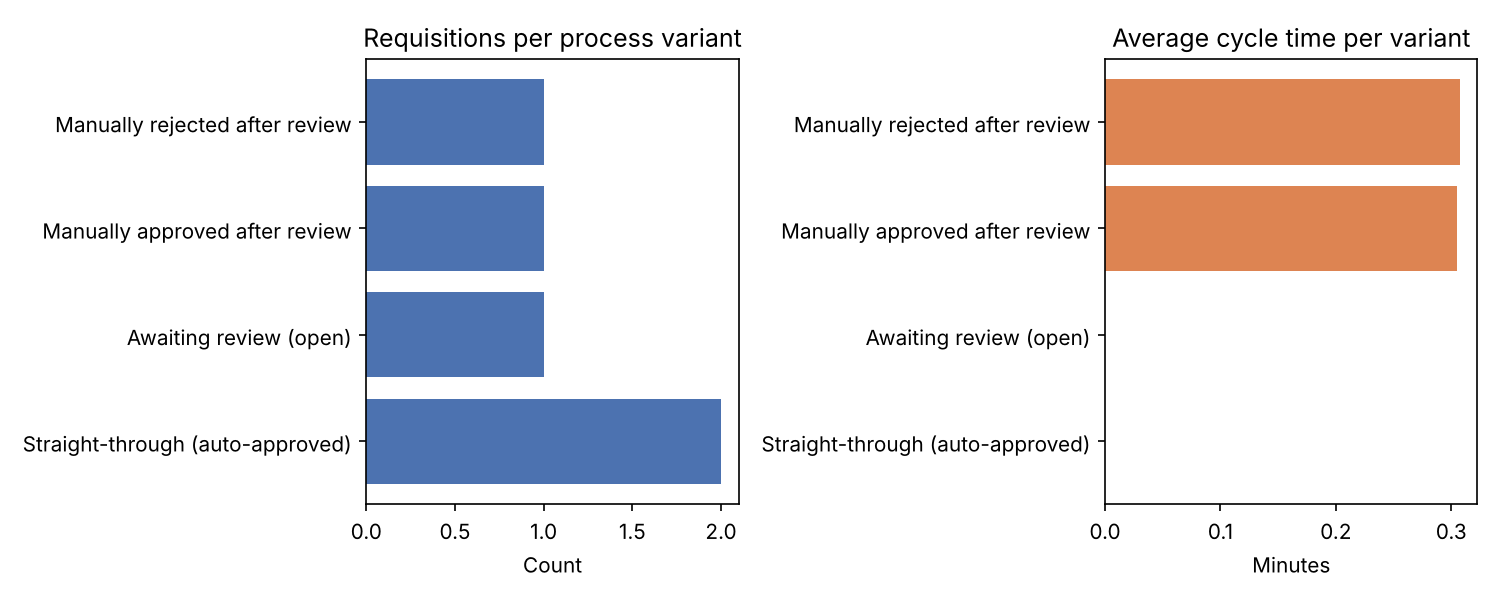
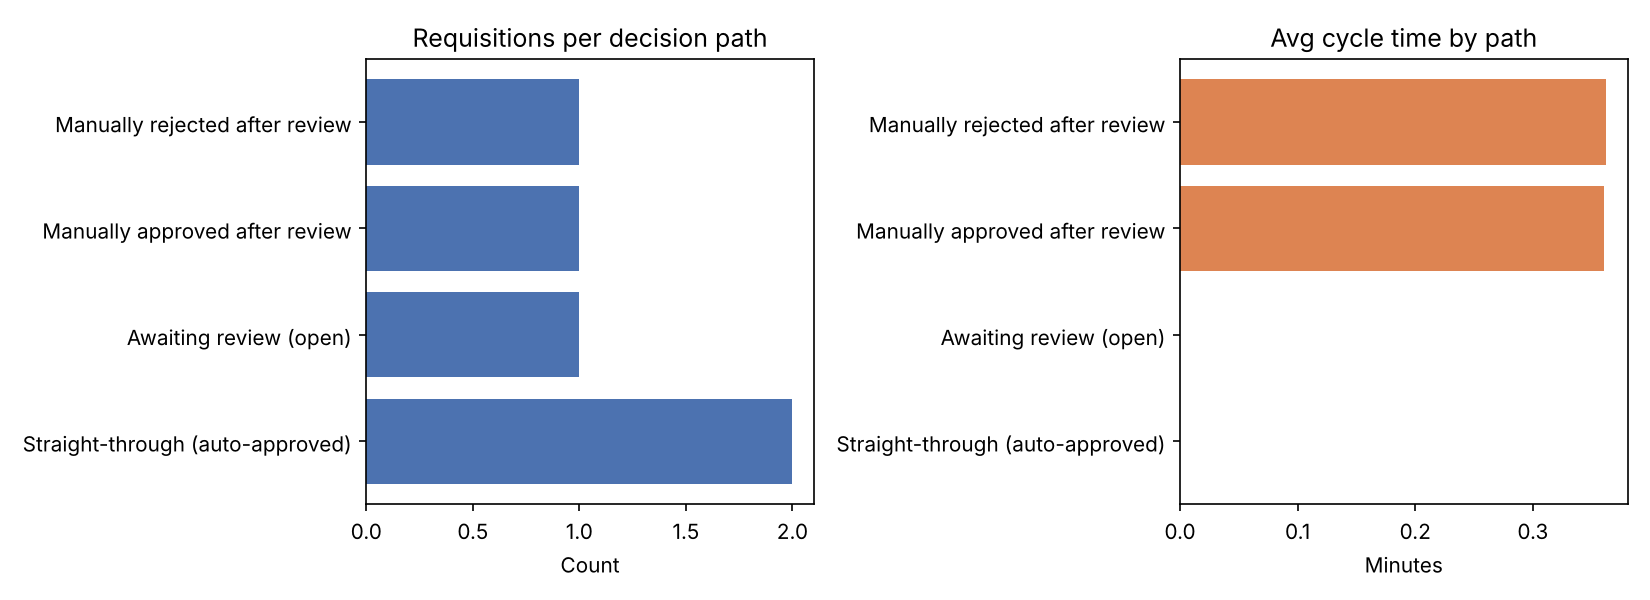
Fix round-table findings in the process-intelligence script
Round-table review (hiring-manager, code-quality, and process-mining
domain lenses) on analytics/process_intelligence.py surfaced real issues:

Bugs (code-quality lens):
- Instant parsing could crash on Python < 3.11 for Jackson's nanosecond-
  precision timestamps; now truncated to microseconds before parsing.
- `--chart` without `--out` silently did nothing; now a usage error.
- A negative cycle time (bad data/clock skew) would have been averaged in
  silently; now excluded and reported as a count of excluded bad records.
- `fetch_requisitions` had no request timeout.
- `render_markdown` took an unused `requisitions` parameter.

Framing (hiring-manager + process-mining domain lenses, independently
convergent): "process variant" overclaimed what a two-timestamp log
actually supports -- real variant discovery is over multi-activity
sequences, not a single terminal status. Renamed to "decision path"
throughout, added an explicit disclosed-limitation note in both the
console and Markdown output, and added an at-scale ROI projection
(disclosed hypothetical volume) alongside the real, small-sample figure
so the business-value number doesn't read as trivial by itself.

Verified: `mvn test` still green (22/22, untouched by this change), and
the script re-run live end-to-end against the running API with the fixes
in place; sample_report.md/sample_chart.png regenerated.

Claude-Session: https://claude.ai/code/session_016snCqMSgi8Y39Hj7LXxgPg

diff --git a/analytics/process_intelligence.py b/analytics/process_intelligence.py
@@ -3,12 +3,19 @@ Process intelligence over ReqFlow's own audit trail.
 
 ReqFlow already records, for every requisition, when it was created, when
 (and whether) it was decided, and why -- a timestamped event log by any
-other name. This script treats that log the way a process-mining tool
-would: it reconstructs the distinct paths ("variants") a requisition can
-take through the approval process, measures how long each path actually
-takes, and turns the straight-through / manual-review split into a
-quantified business-value number -- the kind of proof-of-value deliverable
-a procurement process-intelligence engagement is built to produce.
+other name. This script reads that log the way a process-mining tool
+would: it groups requisitions into the decision paths they took through
+the approval process, measures how long each path actually takes, and
+turns the straight-through / manual-review split into a quantified
+business-value number -- the kind of proof-of-value deliverable a
+procurement process-intelligence engagement is built to produce.
+
+Honest about its own limits: with only two recorded timestamps per case
+(created, decided), a "decision path" here is really a terminal-status
+grouping, not full process-mining variant discovery over a multi-activity
+event sequence -- and cycle time is total elapsed time, not decomposed
+into queue-time vs. decision-time. A richer log (e.g. an "opened for
+review" event) would support both; see the note each report prints.
 
 It is a client of the REST API, nothing more -- the same relationship the
 AI triage agent (agent/triage_agent.py) has to ReqFlow. No new endpoint,
@@ -21,11 +28,22 @@ Usage:
 
 import argparse
 import json
+import re
 import statistics
 import urllib.request
 from dataclasses import dataclass, field
 from datetime import datetime, timezone
 from pathlib import Path
+
+REQUEST_TIMEOUT_SECONDS = 10
+
+# Jackson serializes a Java Instant with up to 9 fractional-second digits
+# (nanoseconds), e.g. "...123456789Z". datetime.fromisoformat only accepts
+# arbitrary fractional-digit counts from Python 3.11 onward -- on an older
+# interpreter it raises ValueError on a perfectly ordinary timestamp from
+# this API. Truncating to microseconds (6 digits, what datetime actually
+# stores) sidesteps that version dependence entirely.
+_FRACTIONAL_SECONDS = re.compile(r"(\.\d{6})\d*(?=(Z|[+-]\d{2}:?\d{2})?$)")
 
 DEFAULT_BASE_URL = "http://localhost:8080"
 
@@ -34,6 +52,23 @@ DEFAULT_BASE_URL = "http://localhost:8080"
 # "a plausible mid-market procurement review."
 ASSUMED_MANUAL_REVIEW_MINUTES = 8.0
 ASSUMED_REVIEWER_HOURLY_COST_USD = 25.0
+
+# A demo run only has as many requisitions as someone bothered to create by
+# hand, which makes the absolute ROI figure look trivial even when the rate
+# behind it is real. This projects that same rate onto a disclosed, plainly
+# hypothetical production volume, so the number isn't mistaken for a small
+# finding rather than a small sample.
+ASSUMED_MONTHLY_VOLUME_AT_SCALE = 2000
+
+LIMITATION_NOTE = (
+    "These are decision-path groupings by terminal status, not full "
+    "process-mining variant discovery over a multi-activity event "
+    "sequence -- ReqFlow's audit trail records two timestamps per case "
+    "(created, decided), not intermediate events like \"opened for "
+    "review\". A richer log capturing that would let cycle time "
+    "decompose into queue-time vs. decision-time and support true "
+    "variant discovery."
+)
 
 # Keyword probes used only to bucket an *open* (still-pending) requisition's
 # flag reason into a coarse category for the backlog breakdown below. This
@@ -50,14 +85,18 @@ BACKLOG_CATEGORY_PROBES = [
 
 
 def fetch_requisitions(base_url: str) -> list[dict]:
-    with urllib.request.urlopen(f"{base_url}/api/requisitions") as resp:
+    with urllib.request.urlopen(
+        f"{base_url}/api/requisitions", timeout=REQUEST_TIMEOUT_SECONDS
+    ) as resp:
         return json.loads(resp.read().decode("utf-8"))
 
 
 def _parse_instant(value: str | None) -> datetime | None:
     if value is None:
         return None
-    return datetime.fromisoformat(value.replace("Z", "+00:00"))
+    value = value.replace("Z", "+00:00")
+    value = _FRACTIONAL_SECONDS.sub(r"\1", value)  # ns -> us, for Python < 3.11
+    return datetime.fromisoformat(value)
 
 
 @dataclass
@@ -91,11 +130,16 @@ def classify_backlog_reason(req: dict) -> str:
 
 
 def cycle_minutes(req: dict) -> float | None:
+    """None if undecided, or if the timestamps are unusable (clock skew or
+    bad data producing decidedAt before createdAt) -- a negative duration
+    averaged in silently would be a textbook "quietly wrong number" in a
+    report meant to be taken at face value."""
     created = _parse_instant(req.get("createdAt"))
     decided = _parse_instant(req.get("decidedAt"))
     if created is None or decided is None:
         return None
-    return (decided - created).total_seconds() / 60.0
+    minutes = (decided - created).total_seconds() / 60.0
+    return minutes if minutes >= 0 else None
 
 
 def build_report(requisitions: list[dict]) -> dict:
@@ -103,6 +147,7 @@ def build_report(requisitions: list[dict]) -> dict:
     backlog_by_reason: dict[str, int] = {}
     now = datetime.now(timezone.utc)
     backlog_ages_minutes: list[float] = []
+    excluded_bad_timestamps = 0
 
     for req in requisitions:
         label = classify_variant(req)
@@ -110,9 +155,8 @@ def build_report(requisitions: list[dict]) -> dict:
         stats.count += 1
 
         if label == "Awaiting review (open)":
-            backlog_by_reason[classify_backlog_reason(req)] = (
-                backlog_by_reason.get(classify_backlog_reason(req), 0) + 1
-            )
+            reason = classify_backlog_reason(req)
+            backlog_by_reason[reason] = backlog_by_reason.get(reason, 0) + 1
             created = _parse_instant(req.get("createdAt"))
             if created is not None:
                 backlog_ages_minutes.append((now - created).total_seconds() / 60.0)
@@ -120,6 +164,10 @@ def build_report(requisitions: list[dict]) -> dict:
             minutes = cycle_minutes(req)
             if minutes is not None:
                 stats.cycle_minutes.append(minutes)
+            elif req.get("decidedAt") is not None:
+                # Decided, but the timestamps didn't produce a usable
+                # (non-negative) duration -- bad data, not "undecided".
+                excluded_bad_timestamps += 1
 
     total = len(requisitions)
     auto_approved = variants.get("Straight-through (auto-approved)", VariantStats("")).count
@@ -128,6 +176,11 @@ def build_report(requisitions: list[dict]) -> dict:
     )
     hours_saved = auto_approved * ASSUMED_MANUAL_REVIEW_MINUTES / 60.0
     cost_avoided = hours_saved * ASSUMED_REVIEWER_HOURLY_COST_USD
+
+    auto_approval_rate = auto_approved / total if total else 0.0
+    scaled_auto_approved = round(auto_approval_rate * ASSUMED_MONTHLY_VOLUME_AT_SCALE)
+    scaled_hours_saved = scaled_auto_approved * ASSUMED_MANUAL_REVIEW_MINUTES / 60.0
+    scaled_cost_avoided = scaled_hours_saved * ASSUMED_REVIEWER_HOURLY_COST_USD
 
     return {
         "total": total,
@@ -138,18 +191,24 @@ def build_report(requisitions: list[dict]) -> dict:
         "backlog_ages_minutes": backlog_ages_minutes,
         "hours_saved": hours_saved,
         "cost_avoided": cost_avoided,
+        "auto_approval_rate": auto_approval_rate,
+        "scaled_auto_approved": scaled_auto_approved,
+        "scaled_hours_saved": scaled_hours_saved,
+        "scaled_cost_avoided": scaled_cost_avoided,
+        "excluded_bad_timestamps": excluded_bad_timestamps,
     }
 
 
 def print_report(report: dict) -> None:
     total = report["total"]
     print(f"\nReqFlow process intelligence -- {total} requisitions in scope\n")
-    print(f"{'Variant':38} {'Count':>6} {'Share':>7} {'Avg cycle':>12}")
+    print(f"{'Decision path':38} {'Count':>6} {'Share':>7} {'Avg cycle':>12}")
     for label, stats in sorted(report["variants"].items(), key=lambda kv: -kv[1].count):
         share = f"{100 * stats.count / total:.0f}%" if total else "--"
         avg = stats.avg_cycle_minutes
         avg_str = f"{avg:,.1f} min" if avg is not None else "--"
         print(f"{label:38} {stats.count:>6} {share:>7} {avg_str:>12}")
+    print(f"\n  {LIMITATION_NOTE}")
 
     if report["backlog_by_reason"]:
         print("\nOpen backlog, by original flag reason:")
@@ -173,6 +232,19 @@ def print_report(report: dict) -> None:
         "\n  (Assumptions are deliberately disclosed and swappable -- a real "
         "engagement would use the customer's own review-time and labor-cost figures.)"
     )
+    print(
+        f"\n  At the same {report['auto_approval_rate']:.0%} auto-approval rate but a "
+        f"production volume of {ASSUMED_MONTHLY_VOLUME_AT_SCALE:,}/month (disclosed, "
+        f"hypothetical): ~{report['scaled_auto_approved']:,} auto-approved, "
+        f"~{report['scaled_hours_saved']:.1f} reviewer-hours and "
+        f"~${report['scaled_cost_avoided']:,.0f}/month avoided."
+    )
+
+    if report["excluded_bad_timestamps"]:
+        print(
+            f"\n  Note: {report['excluded_bad_timestamps']} decided requisition(s) had "
+            "decidedAt before createdAt and were excluded from cycle-time stats as bad data."
+        )
 
 
 def render_chart(report: dict, out_path: Path) -> None:
@@ -184,13 +256,13 @@ def render_chart(report: dict, out_path: Path) -> None:
     counts = [report["variants"][l].count for l in labels]
     avg_cycles = [report["variants"][l].avg_cycle_minutes or 0 for l in labels]
 
-    fig, (ax1, ax2) = plt.subplots(1, 2, figsize=(10, 4))
+    fig, (ax1, ax2) = plt.subplots(1, 2, figsize=(11, 4))
     ax1.barh(labels, counts, color="#4C72B0")
-    ax1.set_title("Requisitions per process variant")
+    ax1.set_title("Requisitions per decision path")
     ax1.set_xlabel("Count")
 
     ax2.barh(labels, avg_cycles, color="#DD8452")
-    ax2.set_title("Average cycle time per variant")
+    ax2.set_title("Avg cycle time by path")
     ax2.set_xlabel("Minutes")
 
     fig.tight_layout()
@@ -198,15 +270,15 @@ def render_chart(report: dict, out_path: Path) -> None:
     plt.close(fig)
 
 
-def render_markdown(report: dict, requisitions: list[dict], chart_path: str | None) -> str:
+def render_markdown(report: dict, chart_path: str | None) -> str:
     lines = [
         "# ReqFlow Process Intelligence -- Proof-of-Value Summary",
         "",
         f"Scope: {report['total']} requisitions currently in the system.",
         "",
-        "## Process variants",
+        "## Decision paths",
         "",
-        "| Variant | Count | Share | Avg cycle time |",
+        "| Decision path | Count | Share | Avg cycle time |",
         "|---|---:|---:|---:|",
     ]
     for label, stats in sorted(report["variants"].items(), key=lambda kv: -kv[1].count):
@@ -214,6 +286,7 @@ def render_markdown(report: dict, requisitions: list[dict], chart_path: str | No
         avg = stats.avg_cycle_minutes
         avg_str = f"{avg:,.1f} min" if avg is not None else "--"
         lines.append(f"| {label} | {stats.count} | {share} | {avg_str} |")
+    lines += ["", f"*{LIMITATION_NOTE}*"]
 
     if report["backlog_by_reason"]:
         lines += ["", "## Open backlog, by original flag reason", "",
@@ -233,10 +306,23 @@ def render_markdown(report: dict, requisitions: list[dict], chart_path: str | No
         "",
         "*Assumptions are disclosed and swappable -- a real engagement would substitute "
         "the customer's own review-time and labor-cost figures.*",
+        "",
+        f"At the same **{report['auto_approval_rate']:.0%}** auto-approval rate but a "
+        f"production volume of **{ASSUMED_MONTHLY_VOLUME_AT_SCALE:,}/month** (disclosed, "
+        f"hypothetical): **~{report['scaled_auto_approved']:,}** auto-approved, "
+        f"**~{report['scaled_hours_saved']:.1f} reviewer-hours** and "
+        f"**~${report['scaled_cost_avoided']:,.0f}/month** avoided.",
     ]
 
     if chart_path:
-        lines += ["", f"![Process variant and cycle-time chart]({chart_path})"]
+        lines += ["", f"![Decision-path and cycle-time chart]({chart_path})"]
+
+    if report["excluded_bad_timestamps"]:
+        lines += [
+            "",
+            f"*{report['excluded_bad_timestamps']} decided requisition(s) had `decidedAt` "
+            "before `createdAt` and were excluded from cycle-time stats as bad data.*",
+        ]
 
     return "\n".join(lines) + "\n"
 
@@ -247,6 +333,8 @@ def main() -> int:
     parser.add_argument("--out", help="Write a Markdown report to this path")
     parser.add_argument("--chart", help="Write a PNG chart to this path (requires --out)")
     args = parser.parse_args()
+    if args.chart and not args.out:
+        parser.error("--chart requires --out (the chart is only referenced from the report)")
 
     requisitions = fetch_requisitions(args.base_url)
     report = build_report(requisitions)
@@ -257,7 +345,7 @@ def main() -> int:
         if args.chart:
             render_chart(report, Path(args.chart))
             chart_rel = Path(args.chart).name
-        Path(args.out).write_text(render_markdown(report, requisitions, chart_rel))
+        Path(args.out).write_text(render_markdown(report, chart_rel), encoding="utf-8")
         print(f"\nWrote report to {args.out}")
 
     return 0

diff --git a/analytics/sample_report.md b/analytics/sample_report.md
@@ -4,18 +4,21 @@
 > manually-decided requisitions created seconds apart), checked in to show
 > the report's shape. Run against real usage, cycle times would reflect
 > real review latency -- minutes to days, not fractions of a minute -- and
-> the business-value estimate would scale with real volume.
+> the at-scale projection below shows how the same rate reads at a
+> disclosed, hypothetical production volume.
 
 Scope: 5 requisitions currently in the system.
 
-## Process variants
+## Decision paths
 
-| Variant | Count | Share | Avg cycle time |
+| Decision path | Count | Share | Avg cycle time |
 |---|---:|---:|---:|
 | Straight-through (auto-approved) | 2 | 40% | 0.0 min |
 | Awaiting review (open) | 1 | 20% | -- |
-| Manually approved after review | 1 | 20% | 0.3 min |
-| Manually rejected after review | 1 | 20% | 0.3 min |
+| Manually approved after review | 1 | 20% | 0.4 min |
+| Manually rejected after review | 1 | 20% | 0.4 min |
+
+*These are decision-path groupings by terminal status, not full process-mining variant discovery over a multi-activity event sequence -- ReqFlow's audit trail records two timestamps per case (created, decided), not intermediate events like "opened for review". A richer log capturing that would let cycle time decompose into queue-time vs. decision-time and support true variant discovery.*
 
 ## Open backlog, by original flag reason
 
@@ -31,4 +34,6 @@ Scope: 5 requisitions currently in the system.
 
 *Assumptions are disclosed and swappable -- a real engagement would substitute the customer's own review-time and labor-cost figures.*
 
-![Process variant and cycle-time chart](sample_chart.png)
+At the same **40%** auto-approval rate but a production volume of **2,000/month** (disclosed, hypothetical): **~800** auto-approved, **~106.7 reviewer-hours** and **~$2,667/month** avoided.
+
+![Decision-path and cycle-time chart](sample_chart.png)
